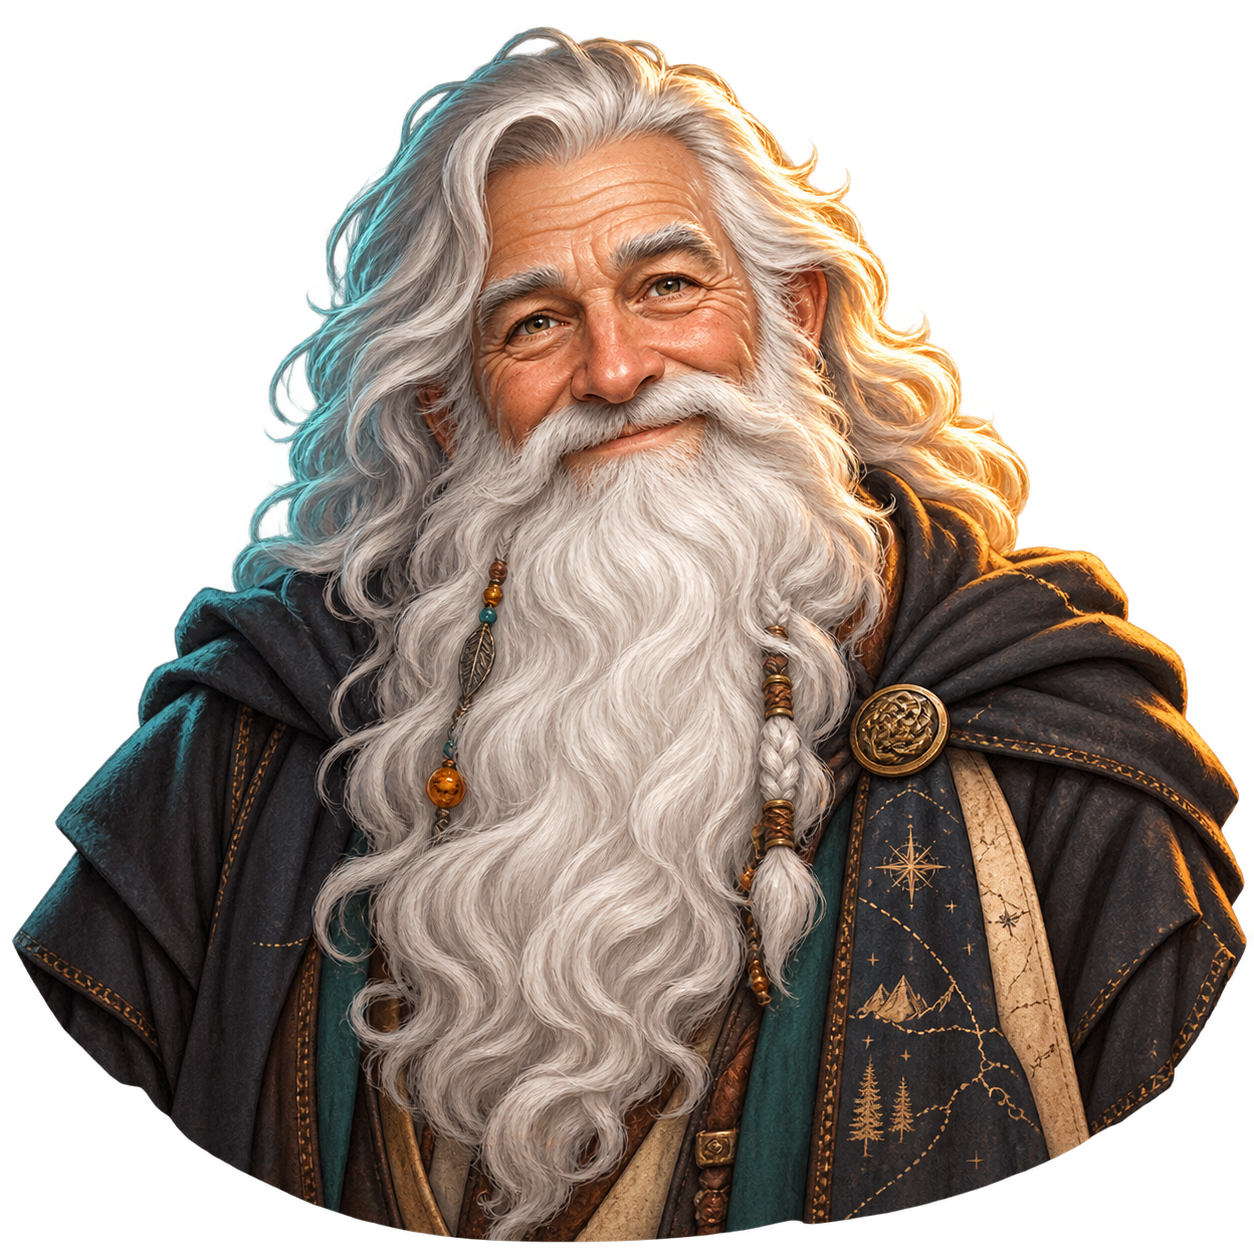
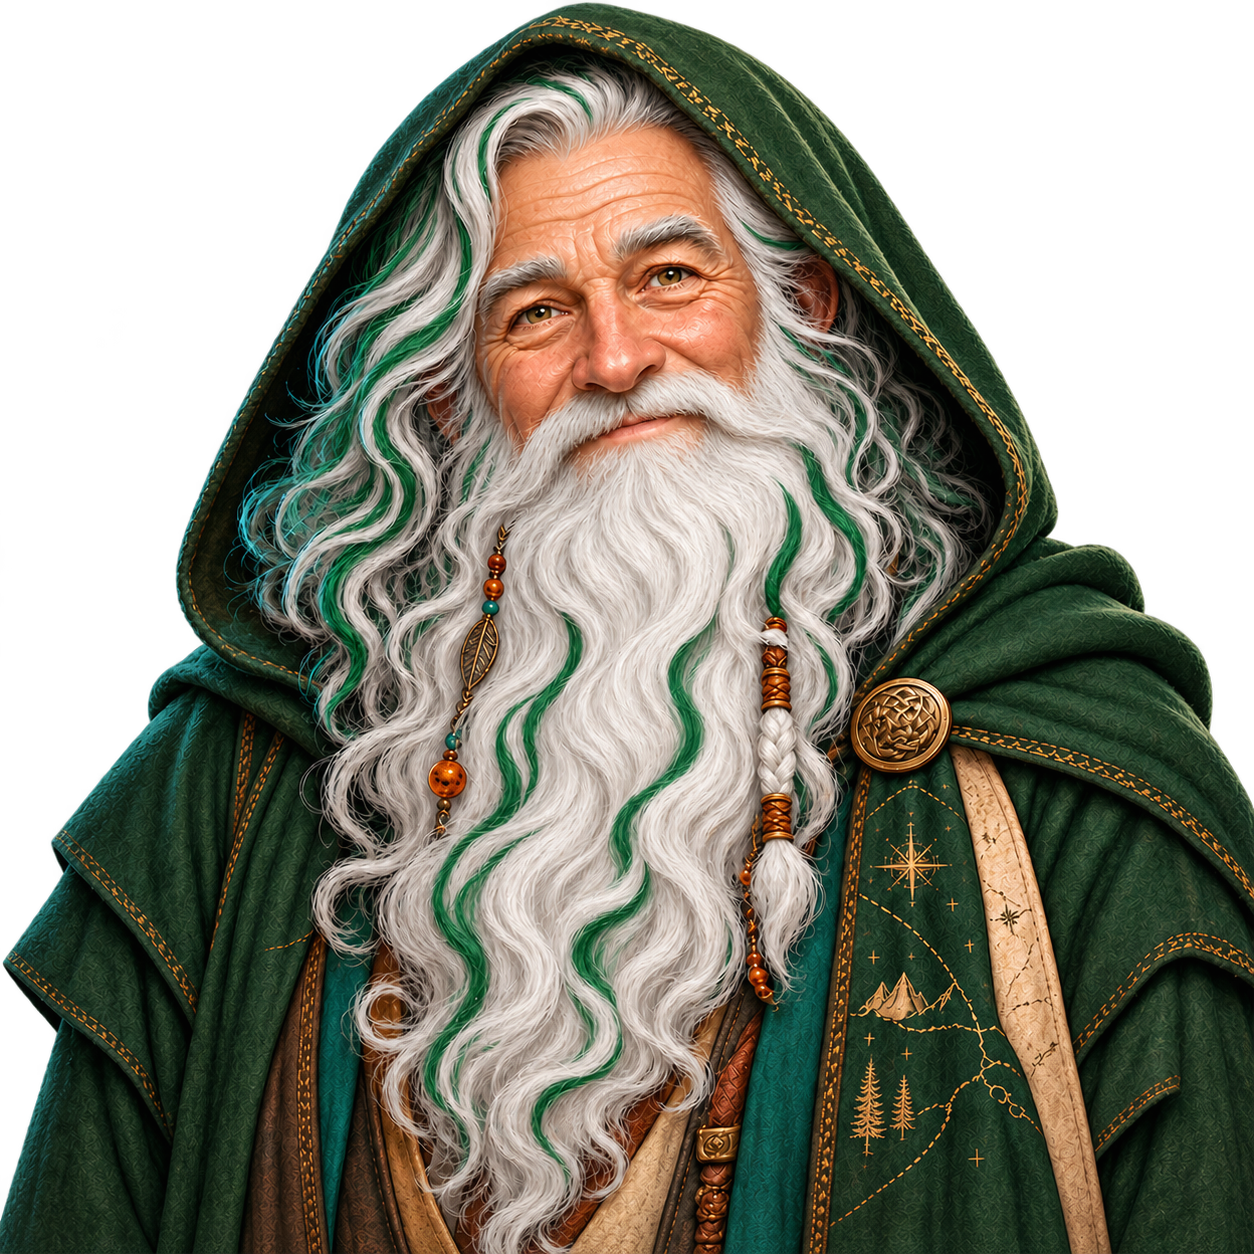
Add workflow navigation and refine guide

diff --git a/modules/learn/ui/learn-workspace.tsx b/modules/learn/ui/learn-workspace.tsx
@@ -11,6 +11,20 @@ import styles from "./learn-workspace.module.css";
 const PROJECT_KEY = "plotpickle.foundation.project.v1";
 const THREAD_PREFIX = "plotpickle.foundation.thread.";
 
+const WORKFLOW_STAGES = [
+  { id: "dashboard", mark: "D", label: "Dashboard", detail: "Start here" },
+  { id: "learn", mark: "L", label: "Learn", detail: "Guides & tools" },
+  { id: "plan", mark: "P", label: "Plan", detail: "Story design" },
+  { id: "storyboard", mark: "S", label: "Storyboard", detail: "Visual direction" },
+  { id: "write", mark: "W", label: "Write", detail: "Screenplay" },
+  { id: "edit", mark: "E", label: "Edit", detail: "Refine copy" },
+  { id: "graphic-novel", mark: "G", label: "Graphic Novel", detail: "Pages & panels" },
+  { id: "build", mark: "B", label: "Build", detail: "Assemble" },
+  { id: "feedback", mark: "F", label: "Feedback", detail: "AI & team" },
+  { id: "refine", mark: "R", label: "Refine", detail: "Review & decide" },
+  { id: "reports", mark: "X", label: "Reports / Export", detail: "Deliver story" },
+] as const;
+
 type Message = {
   readonly id: string;
   readonly role: "writer" | "guide";
@@ -131,7 +145,25 @@ export default function LearnWorkspace({
   const completed = new Set(project.learning.completedLessonIds);
 
   return (
-    <main className={styles.workspace}>
+    <div className={styles.learnScreen}>
+      <nav className={styles.workflowNav} aria-label="PlotPickle workflow">
+        <ol>
+          {WORKFLOW_STAGES.map((stage) => (
+            <li
+              aria-current={stage.id === "learn" ? "page" : undefined}
+              className={stage.id === "learn" ? styles.currentStage : undefined}
+              key={stage.id}
+            >
+              <span aria-hidden="true" className={styles.stageMark}>{stage.mark}</span>
+              <span className={styles.stageCopy}>
+                <strong>{stage.label}</strong>
+                <small>{stage.detail}</small>
+              </span>
+            </li>
+          ))}
+        </ol>
+      </nav>
+      <main className={styles.workspace}>
       <aside className={styles.curriculum} aria-label="PlotPickle curriculum">
         <header className={styles.brand}>
           <strong>LEARN</strong>
@@ -255,6 +287,7 @@ export default function LearnWorkspace({
           <button type="submit">Ask PlotPickle</button>
         </form>
       </aside>
-    </main>
+      </main>
+    </div>
   );
 }

diff --git a/modules/learn/ui/learn-workspace.module.css b/modules/learn/ui/learn-workspace.module.css
@@ -1,3 +1,101 @@
+.learnScreen {
+  --matte: #090a0b;
+  --panel: #111315;
+  --panel-raised: #171a1c;
+  --line: #2b3033;
+  --text: #f1eee7;
+  --muted: #aaa398;
+  --teal: #35c9b8;
+  --orange: #f08a4b;
+  display: flex;
+  width: 100%;
+  height: 100dvh;
+  min-height: 640px;
+  flex-direction: column;
+  overflow: hidden;
+  background: var(--matte);
+  color: var(--text);
+  font-family: var(--font-mono, "Courier New", monospace);
+}
+
+.workflowNav {
+  flex: 0 0 auto;
+  overflow-x: auto;
+  border-bottom: 1px solid var(--line);
+  background: #08090a;
+  scrollbar-width: none;
+}
+
+.workflowNav::-webkit-scrollbar {
+  display: none;
+}
+
+.workflowNav ol {
+  display: grid;
+  min-width: 1040px;
+  grid-template-columns: repeat(11, minmax(82px, 1fr));
+  gap: 0;
+  margin: 0;
+  padding: 10px 12px 9px;
+  list-style: none;
+}
+
+.workflowNav li {
+  position: relative;
+  display: grid;
+  justify-items: center;
+  gap: 5px;
+  color: #837d73;
+  text-align: center;
+}
+
+.workflowNav li:not(:last-child)::after {
+  position: absolute;
+  top: 16px;
+  right: -4px;
+  color: rgba(240, 138, 75, 0.62);
+  content: "›";
+}
+
+.stageMark {
+  display: grid;
+  width: 34px;
+  height: 34px;
+  place-items: center;
+  border: 1px solid #75613a;
+  border-radius: 50%;
+  color: #c39a50;
+  font-size: 12px;
+  font-weight: 800;
+}
+
+.stageCopy {
+  display: grid;
+  gap: 2px;
+}
+
+.stageCopy strong {
+  color: #b6b0a7;
+  font-size: 11px;
+  font-weight: 700;
+}
+
+.stageCopy small {
+  color: #777168;
+  font-size: 8px;
+  white-space: nowrap;
+}
+
+.currentStage .stageMark {
+  border-color: var(--teal);
+  box-shadow: 0 0 0 3px rgba(53, 201, 184, 0.09);
+  color: var(--teal);
+}
+
+.currentStage .stageCopy strong {
+  color: var(--text);
+}
+
 .workspace {
   --matte: #090a0b;
   --panel: #111315;
@@ -10,8 +108,8 @@
   display: grid;
   grid-template-columns: minmax(240px, 19%) minmax(440px, 56%) minmax(310px, 25%);
   width: 100%;
-  height: 100dvh;
-  min-height: 640px;
+  min-height: 0;
+  flex: 1;
   overflow: hidden;
   background: var(--matte);
   color: var(--text);
@@ -279,6 +377,12 @@
 }
 
 @media (max-width: 820px) {
+  .learnScreen {
+    height: auto;
+    min-height: 100dvh;
+    overflow: visible;
+  }
+
   .workspace {
     height: auto;
     min-height: 100dvh;
